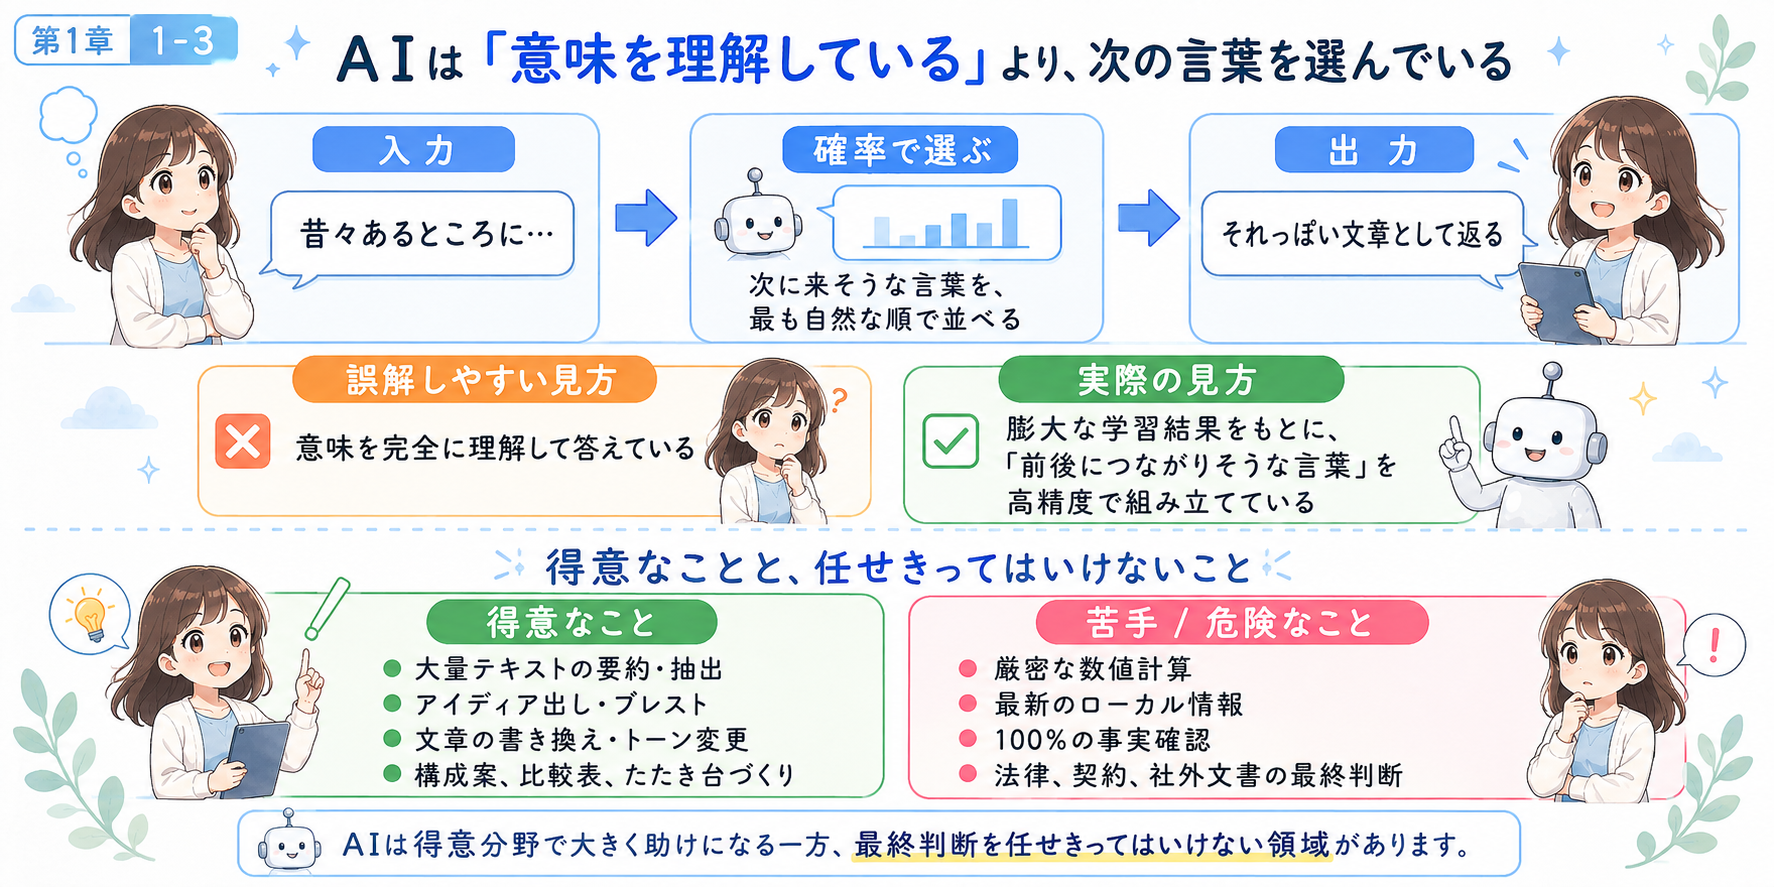
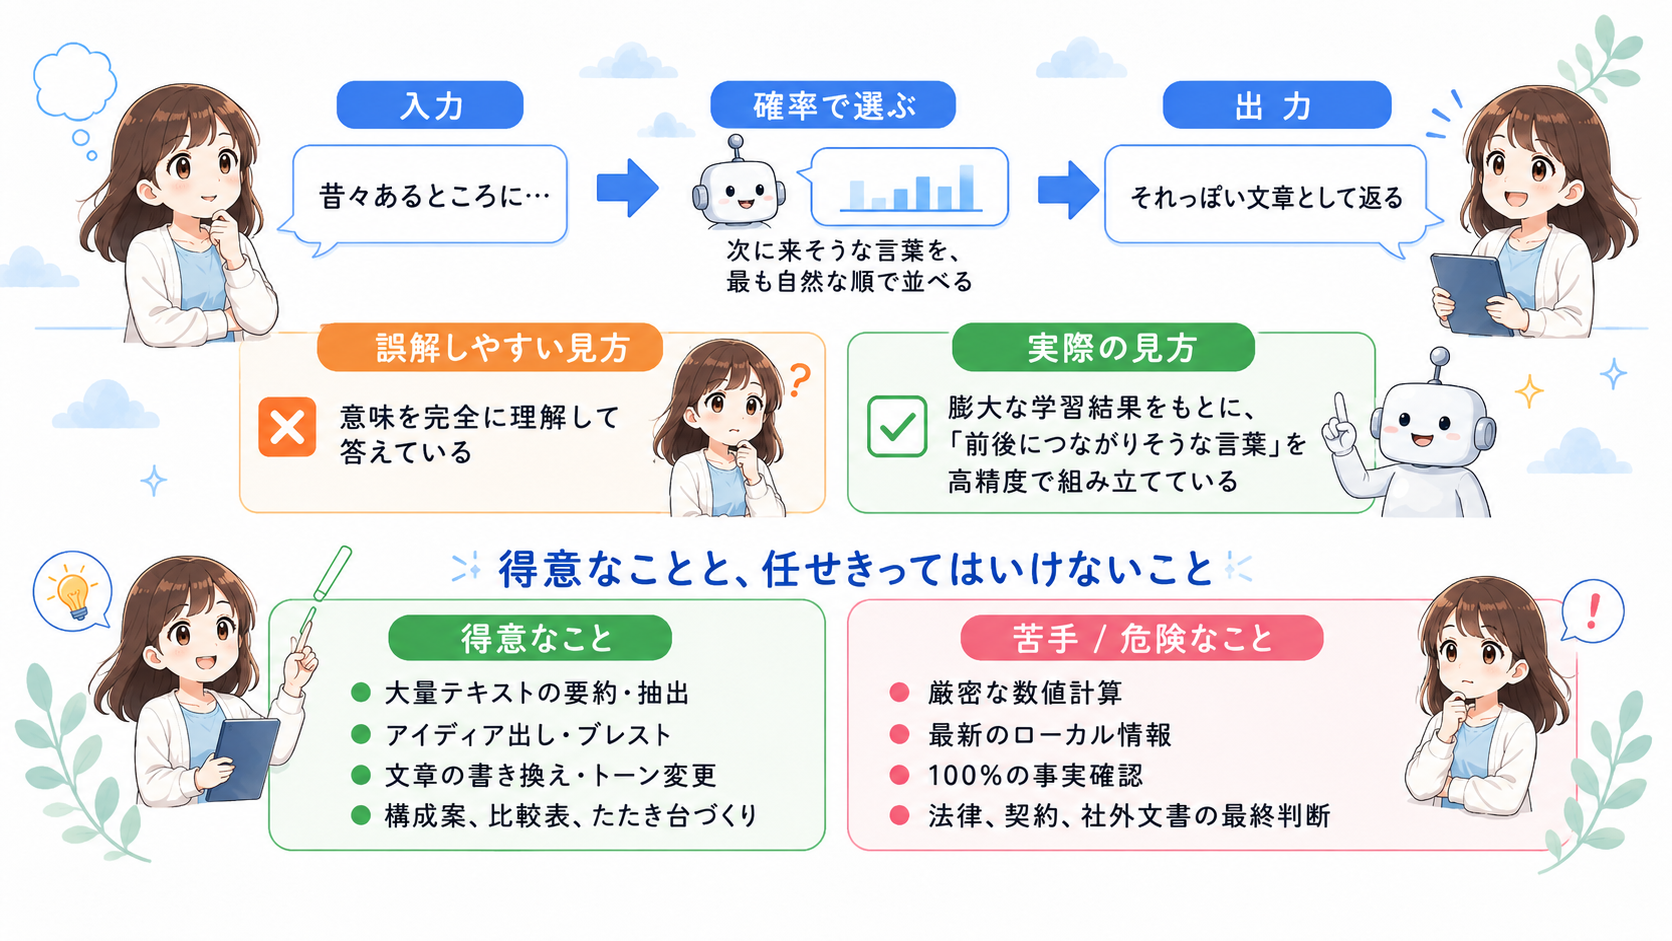
Refine AI Fukuoka slide visuals

diff --git a/AI-FUKUOKA/01_生成AI仕事術_最終まとめ_20260805/slides/index.html b/AI-FUKUOKA/01_生成AI仕事術_最終まとめ_20260805/slides/index.html
@@ -24,11 +24,11 @@
       <rect x="14" y="4" width="6" height="6"></rect>
       <rect x="4" y="14" width="6" height="6"></rect>
       <rect x="14" y="14" width="6" height="6"></rect>AIとの関わり方は、プロンプトからループ設計へ進化している
-    </symbol>
+    </sすらymbol>
     <symbol id="icon-check" viewBox="0 0 24 24">
       <path d="M5 12.5 10 17l9-10"></path>
     </symbol>
-    <symbol id="icon-search" viewBox="0 0 24 24">
+ スライド   <symbol id="icon-search" viewBox="0 0 24 24">
       <circle cx="11" cy="11"
        r="6"></circle>
       <path d="m20 20-4.2-4.2"></path>さい
@@ -63,7 +63,7 @@
         <nav class="toc">
           <a class="toc__link" href="#slide-1">1 生成AIの歩き方</a>
           <a class="toc__link" href="#slide-2">2 はじめに</a>
-          <a class="toc__link" href="#slide-3">3 初めに</a>
+          <a class="toc__link" href="#slide-3">3 はじめに</a>
           <a class="toc__link" href="#slide-4">4 目次</a>
           <a class="toc__link" href="#slide-5">5 第1章扉</a>
           <a class="toc__link" href="#slide-6">6 LLMとは</a>
@@ -116,10 +116,10 @@
             <div class="hero-grid">
               <div class="hero-copy">
                 <p class="eyebrow">AI SUMMER SCHOOL / AUGUST 2026</p>
-                <h2 class="title title--hero">生成AIの歩き方<br><span class="accent hero-subtitle">2026年8月最新版</span></h2>
+                <h2 class="title title--hero">生成AIの歩き方 <span class="accent hero-subtitle">2026年8月最新版</span></h2>
               </div>
 
-              <figure class="art-panel art-panel--cover">
+              <figure class="art-panel art-panel--cover art-panel--cover-offset">
                 <img
                   class="slide-illustration slide-illustration--cover"
                   src="./images/new-cover.png"
@@ -173,7 +173,7 @@
           </div>
         </section>
 
-        <section class="slide" id="slide-3" data-title="初めに">
+        <section class="slide" id="slide-3" data-title="はじめに">
           <div class="slide__frame">
             <div class="slide__tag">序章</div>
             <div class="slide__main">
@@ -182,8 +182,8 @@
                 <h2 class="title">自分に必要なこと・やりたいことに落とし込んで<span class="accent">経験値を積み上げる</span></h2>
               </div>
 
-              <div class="two-column two-column--wide">
-                <div class="request-output-stack">
+              <div class="two-column two-column--wide two-column--intro">
+                <div class="request-output-stack request-output-stack--intro">
                   <p class="callout">
                     AIのニュースは速いですが、すべてを追う必要はありません。
                     いちばん大事なのは、自分の仕事で使ってみて、「本当に楽になった」という小さな成功体験を作ることです。
@@ -210,7 +210,7 @@
                   <p class="footer-note">1回で完璧を目指すより、少しずつ良くするほうが実務では強いです。</p>
                 </div>
 
-                <div>
+                <div class="intro-visual">
                   <figure class="art-panel art-panel--plain">
                     <img
                       class="slide-illustration slide-illustration--inline"
@@ -319,9 +319,9 @@
                 <h2 class="title">生成AI開発は<span class="accent">国家間の競争</span>に</h2>
               </div>
 
-              <figure class="art-panel art-panel--plain art-panel--message">
+              <figure class="art-panel art-panel--plain art-panel--message art-panel--message-lg">
                 <img
-                  class="slide-illustration slide-illustration--message"
+                  class="slide-illustration slide-illustration--message slide-illustration--message-lg"
                   src="./images/slide-7-ai-dev.png"
                   alt="生成AI開発が国家間競争になっている状況を説明する図"
                 >
@@ -337,7 +337,7 @@
             <div class="slide__main">
               <div class="slide__header">
                 <p class="eyebrow">1-2</p>
-                <h2 class="title">AIは「意味を理解している」より、<span class="accent">次の言葉を選んでいる</span></h2>
+                <h2 class="title title--slide-8">AIは「意味を理解している」より、<span class="accent">次の言葉を選んでいる</span></h2>
               </div>
 
               <figure class="art-panel art-panel--plain art-panel--message">
@@ -356,9 +356,14 @@
           <div class="slide__frame">
             <div class="side-pill">第1章</div>
             <div class="slide__main">
-              <figure class="art-panel art-panel--plain art-panel--message">
+              <div class="slide__header">
+                <p class="eyebrow">1-3</p>
+                <h2 class="title">得意なことと、<span class="accent">任せきってはいけないこと</span></h2>
+              </div>
+
+              <figure class="art-panel art-panel--plain art-panel--message art-panel--message-up">
                 <img
-                  class="slide-illustration slide-illustration--message"
+                  class="slide-illustration slide-illustration--message slide-illustration--message-up"
                   src="./images/slide-9-ai-tokui.png"
                   alt="AIの得意なことや、壁打ち相手としての使いやすさを表したイラスト"
                 >
@@ -473,7 +478,7 @@
             <div class="slide__main">
               <div class="slide__header">
                 <p class="eyebrow">料金プラン</p>
-                <h2 class="title">無料版は入口。<span class="accent">一歩先をやるなら課金が必要になりやすい</span></h2>
+                <h2 class="title">無料版は入口。<span class="accent">一歩先をやるなら課金がベター</span></h2>
               </div>
 
               <figure class="art-panel art-panel--plain art-panel--message">
@@ -515,7 +520,7 @@
             <div class="slide__main">
               <div class="slide__header">
                 <p class="eyebrow">1-8</p>
-                <h2 class="title">LLM提供サービスと<span class="accent">上物サービス</span>は、役割の層が違う</h2>
+                <h2 class="title">LLM提供サービスと<span class="accent">上物サービス</span>は、役割の違い</h2>
               </div>
 
               <figure class="art-panel art-panel--plain art-panel--message">

diff --git a/AI-FUKUOKA/01_生成AI仕事術_最終まとめ_20260805/slides/styles.css b/AI-FUKUOKA/01_生成AI仕事術_最終まとめ_20260805/slides/styles.css
@@ -277,7 +277,7 @@ a {
 }
 
 .title--hero {
-  font-size: clamp(2.6rem, 4.4vw, 4.6rem);
+  font-size: clamp(2.15rem, 3.7vw, 3.8rem);
   line-height: 1.05;
 }
 
@@ -289,6 +289,11 @@ a {
 
 .title--chapter {
   font-size: clamp(2.7rem, 4.4vw, 4.4rem);
+}
+
+.title--slide-8 {
+  font-size: clamp(1.75rem, 2.45vw, 2.45rem);
+  line-height: 1.18;
 }
 
 .chapter-accent--single-line {
@@ -367,8 +372,8 @@ a {
 .hero-grid {
   height: 100%;
   display: grid;
-  grid-template-columns: 1.05fr 1fr;
-  gap: 32px;
+  grid-template-columns: 0.82fr 1.18fr;
+  gap: 20px;
   align-items: center;
 }
 
@@ -389,6 +394,10 @@ a {
   padding: 0;
   border: none;
   background: transparent;
+}
+
+.art-panel--cover-offset {
+  margin-top: 26px;
 }
 
 .art-panel--plain {
@@ -421,6 +430,15 @@ a {
   align-items: center;
   justify-content: center;
   height: 100%;
+}
+
+.art-panel--message-lg {
+  padding-top: 8px;
+}
+
+.art-panel--message-up {
+  align-items: flex-start;
+  padding-top: 0;
 }
 
 .slide-illustration {
@@ -466,9 +484,18 @@ a {
 }
 
 .slide-illustration--message {
-  max-height: 640px;
+  max-height: 610px;
   object-fit: contain;
   border-radius: 18px;
+}
+
+.slide-illustration--message-lg {
+  max-height: 660px;
+  border-radius: 12px;
+}
+
+.slide-illustration--message-up {
+  max-height: 635px;
 }
 
 .mindset-triptych {
@@ -544,14 +571,14 @@ a {
 .mindset-panel__label {
   position: absolute;
   left: 18px;
-  top: -6px;
+  top: -16px;
   margin: 0;
-  padding: 12px 18px;
+  padding: 14px 22px;
   border-radius: 999px;
   background: rgba(255, 255, 255, 0.92);
   color: var(--accent-deep);
   font-weight: 800;
-  font-size: 1.02rem;
+  font-size: 1.14rem;
   line-height: 1.2;
   box-shadow: 0 8px 24px rgba(27, 36, 50, 0.08);
   z-index: 2;
@@ -732,6 +759,11 @@ a {
   align-items: start;
 }
 
+.two-column--intro {
+  grid-template-columns: minmax(0, 1.42fr) minmax(250px, 0.58fr);
+  gap: 18px;
+}
+
 .bullet-list {
   display: grid;
   gap: 10px;
@@ -770,6 +802,16 @@ a {
 .request-output-stack {
   display: grid;
   gap: 14px;
+}
+
+.request-output-stack--intro .callout {
+  margin-right: -34px;
+  position: relative;
+  z-index: 1;
+}
+
+.intro-visual {
+  padding-top: 44px;
 }
 
 .request-output__column {
